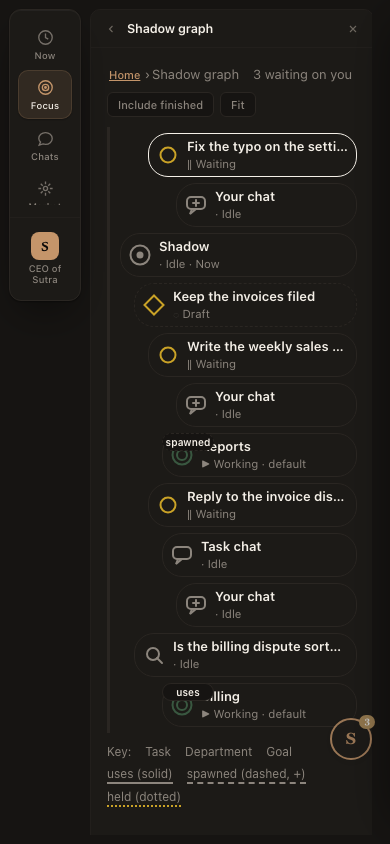
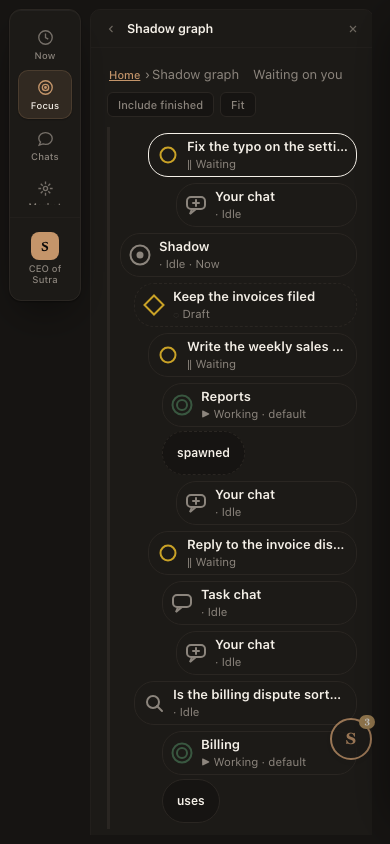
PRD P5.2: fix: edge tags clear every node, no count at rest in the graph header, no two nodes overlap
Wider gap between columns and taller rows; the tag sits in the middle of the gap; on the phone list a tag is in the flow under the node, 44 px tall. A department no longer shares rows with a task chat. The header reads Working / Waiting on you with no number. The walk and a unit test assert tag-vs-node and node-vs-node boxes and no digit in the header; the screenshots are re-shot.

diff --git a/marketplace/plugin/sutra-ui/qa/walks/a5-walk.js b/marketplace/plugin/sutra-ui/qa/walks/a5-walk.js
@@ -129,6 +129,20 @@ const NARROW = { w: 390, h: 844, mobile: false, tag: "390" };       // the app's
     if (kind !== "website") check("org: " + kind + ": the page does not call itself a website", !/website/i.test(text || ""), (text || "").match(/.{0,30}website.{0,30}/i));
   }
 
+
+  // a tag (the words on an edge) never sits on a node, and the graph holds no count at rest
+  const overlaps = `(() => { const box = e => e.getBoundingClientRect(), hit = (a, b) => a.left < b.right - 1 && b.left < a.right - 1 && a.top < b.bottom - 1 && b.top < a.bottom - 1;
+    const nodes = [...document.querySelectorAll('[data-sgnode]')], bad = [];
+    document.querySelectorAll('[data-sgtag]').forEach(t => nodes.forEach(n => { if (hit(box(t), box(n))) bad.push(t.textContent.trim() + ' on ' + (n.querySelector('.sglab') || n).textContent.trim()); }));
+    if (document.querySelector('.sghost')) nodes.forEach((a, i) => nodes.slice(i + 1).forEach(b => { if (hit(box(a), box(b))) bad.push('node ' + a.dataset.sgnode + ' on ' + b.dataset.sgnode); }));
+    const sum = (document.querySelector('.sgsum') || {}).textContent || '';
+    return JSON.stringify({ bad, tags: document.querySelectorAll('[data-sgtag]').length, digits: /\\d/.test(sum), sum }); })()`;
+  const tagCheck = async w => {
+    const r = JSON.parse(await run(overlaps));
+    check("graph " + w + ": no edge tag sits on a node and no node on another", r.tags >= 2 && r.bad.length === 0, JSON.stringify(r));
+    check("graph " + w + ": the header holds no count at rest", !r.digits, JSON.stringify(r.sum));
+  };
+
   // ---- 2. Home, then Graph --------------------------------------------------------------------------------------------------
   const home = async () => { await run(`goDest('focus'); openScreen('shadow'); render()`); await sleep(800); };
   const toGraph = async (vp) => {
@@ -156,6 +170,7 @@ const NARROW = { w: 390, h: 844, mobile: false, tag: "390" };       // the app's
   check("graph: spawned is a dashed line with a plus", view.spawned && view.spawned.dash && view.spawned.dash !== "none" && view.spawned.plus, JSON.stringify(view.spawned));
   check("graph: each of uses and spawned has a tag with its reason", ["uses", "spawned"].every(w => view.tags.some(t => t.word === w && /: .{5,}/.test(t.label || ""))), JSON.stringify(view.tags));
   check("graph: no node is only a colour (a word and a label go with it)", view.bare === 0, "bare " + view.bare);
+  await tagCheck("1280");
   await shot("graph-overview-1280.png");
 
   // every node opens the right chat or page
@@ -204,6 +219,7 @@ const NARROW = { w: 390, h: 844, mobile: false, tag: "390" };       // the app's
   await waitFor(`document.querySelectorAll('[data-sgnode]').length > 1 && !document.querySelector('.sgfocus')`, 15000);
   const phone = JSON.parse(await run(`JSON.stringify({ nodes: document.querySelectorAll('[data-sgnode]').length, small: [...document.querySelectorAll('[data-sgnode]')].filter(b => b.getBoundingClientRect().height < 44).length, over: document.documentElement.scrollWidth > window.innerWidth + 1 })`));
   check("phone: the graph is a list of 44 px targets with no sideways scroll", phone.nodes > 1 && phone.small === 0 && !phone.over, JSON.stringify(phone));
+  await tagCheck("390");
   await shot("graph-overview-390.png");
   for (const kind of ["default", "organic", "root"]) {
     for (const vp of [BIG, SMALL]) {

diff --git a/marketplace/plugin/sutra-ui/test_shadow_graph.js b/marketplace/plugin/sutra-ui/test_shadow_graph.js
@@ -117,7 +117,7 @@ async function loaded(ctx, body){
     const ctx = boot();
     let h = await loaded(ctx);
     assert.ok(!/Updated \d+s ago/.test(h));
-    assert.ok(/1 working, 1 waiting on you/.test(h));
+    assert.ok(/Working, Waiting on you/.test(h));
     ctx.clock.t += 30000;
     assert.ok(/Updated 30s ago/.test(html(ctx)));
   });
@@ -158,6 +158,29 @@ async function loaded(ctx, body){
     const heldId = SAMPLE.graph.edges.find(e => e.held).id;
     fire(ctx, "mouseover", btn({ sgtag: heldId }));
     assert.ok(/by the rule: /.test(html(ctx)) && /Held: Collections is Off/.test(html(ctx)));
+  });
+
+  await atest("no count at rest: the graph and its header hold no digit outside the names, times and ids", async () => {
+    const ctx = boot();
+    const h = await loaded(ctx);
+    const sum = /class="sgsum"[^>]*>([^<]*)</.exec(h);
+    assert.ok(sum && sum[1] && !/\d/.test(sum[1]), "the header summary has no digit: " + (sum && sum[1]));
+    const plain = h.replace(/<[^>]*>/g, " ");
+    assert.ok(!/\b\d+\s+(working|waiting|tasks?|departments?|chats?)\b/i.test(plain), "no 'N working'-style count");
+  });
+
+  await atest("layout: an edge tag clears every node box at the wide width", async () => {
+    const ctx = boot();
+    const h = await loaded(ctx);
+    const px = (s, k) => Number(new RegExp(k + ":(-?\\d+)px").exec(s)[1]);
+    const nodes = [...h.matchAll(/class="sgnode[^"]*"[^>]*?style="([^"]*)"/g)].map(m => ({ x: px(m[1], "left"), y: px(m[1], "top"), w: px(m[1], "width"), h: px(m[1], "height") }));
+    const tags = [...h.matchAll(/class="sgtag[^"]*"[^>]*style="([^"]*)"/g)].map(m => ({ x: px(m[1], "left"), y: px(m[1], "top"), w: 52, h: 18 }));
+    assert.ok(nodes.length > 3 && tags.length >= 3, nodes.length + " nodes, " + tags.length + " tags");
+    const hit = (a, b) => a.x < b.x + b.w && b.x < a.x + a.w && a.y < b.y + b.h && b.y < a.y + a.h;
+    tags.forEach(t => nodes.forEach(nd => assert.ok(!hit(t, nd), "a tag at " + t.x + "," + t.y + " touches a node at " + nd.x + "," + nd.y)));
+    const css = fs.readFileSync(path.join(__dirname, "static", "panel.css"), "utf8");
+    assert.ok(/\.sgtag\{[^}]*width:52px;height:18px/.test(css), "the tag size the box test assumes");
+    assert.ok(/\.sglist \.sgtag\{position:static/.test(css), "on the phone list a tag is in the flow, not over the name");
   });
 
   await atest("each node opens the right place with the right id", async () => {

diff --git a/marketplace/plugin/sutra-ui/static/js/27-shadow-graph.js b/marketplace/plugin/sutra-ui/static/js/27-shadow-graph.js
@@ -13,7 +13,7 @@
 const SG_API = "/api/shadow/graph";
 const SG_POLL_MS = 4000;
 const SG_KEY = "sutra.shadow.graph";
-const SG_COLW = 232, SG_NODEW = 168, SG_ROWH = 22, SG_NODEH = 40, SG_PADX = 16, SG_PADY = 12, SG_PHONE = 700;
+const SG_COLW = 238, SG_NODEW = 152, SG_ROWH = 26, SG_NODEH = 40, SG_TAGW = 52, SG_TAGH = 18, SG_PADX = 16, SG_PADY = 12, SG_PHONE = 700;
 const SG_STALE_S = 12;
 
 /* a status is its word and its glyph before it is a colour */
@@ -189,7 +189,7 @@ function sgGraphHtml(g){
     if (!a || !b) return "";
     const pb = sgPos(b);
     const word = e.held ? "held" : SG_TAG[e.kind];
-    return `<button type="button" class="sgtag t-${e.held ? "held" : e.kind}" data-sgtag="${sgAttr(e.id)}" style="left:${pb.x - 54}px;top:${pb.y + SG_NODEH / 2 - 9}px"
+    return `<button type="button" class="sgtag t-${e.held ? "held" : e.kind}" data-sgtag="${sgAttr(e.id)}" style="left:${pb.x - Math.round((SG_COLW - SG_NODEW + SG_TAGW) / 2)}px;top:${pb.y + SG_NODEH / 2 - SG_TAGH / 2}px"
       aria-label="${sgAttr(word + ": " + (e.reason || ""))}">${sgEsc(word)}</button>`;
   }).join("");
   const tip = sgTipHtml();
@@ -218,12 +218,12 @@ function sgListHtml(g){
   return `<ul class="sglist" data-sghost="1" role="group" aria-label="Shadow graph">${rows}</ul>`;
 }
 
+/* no counts at rest: the header says what kind of thing is happening, never how many */
 function sgSummary(g){
   const t = (g.nodes || []).filter(n => n.kind === "task");
-  const w = t.filter(n => n.status === "working").length, q = t.filter(n => n.status === "waiting").length;
   const bits = [];
-  if (w) bits.push(w + " working");
-  if (q) bits.push(q + " waiting on you");
+  if (t.some(n => n.status === "working")) bits.push("Working");
+  if (t.some(n => n.status === "waiting")) bits.push("Waiting on you");
   return bits.join(", ");
 }
 function sgBanner(){

diff --git a/marketplace/plugin/sutra-ui/static/panel.css b/marketplace/plugin/sutra-ui/static/panel.css
@@ -6347,6 +6347,7 @@ html.embed-chat .panes>.pane{flex:1 1 100%;max-width:none}
 .sgtag.t-held{border-color:var(--warn);color:var(--warn);border-style:dotted}
 .sgtip{position:absolute;z-index:5;max-width:280px;padding:8px 10px;display:flex;flex-direction:column;gap:2px;background:var(--card);
   border:1px solid var(--line);border-radius:var(--r);box-shadow:var(--shadow);font-size:12px}
+.sglist .sgtag{position:static;z-index:auto;width:auto;min-width:52px;min-height:44px;padding:0 14px;border-radius:22px;font-size:12px;line-height:1.2}
 .sgtip.inline{position:static;margin:4px 0 0 30px}
 .sglegend{display:flex;flex-wrap:wrap;gap:4px 14px;color:var(--muted);font-size:12px}
 .sglegend .k-spawned{border-bottom:2px dashed var(--muted)}

diff --git a/marketplace/plugin/sutra-ui/test_shadow_graph_build.py b/marketplace/plugin/sutra-ui/test_shadow_graph_build.py
@@ -199,6 +199,8 @@ def test_10_a_department_used_twice_sits_at_the_mean_row_and_rows_do_not_collide
     assert [n["id"] for n in g["nodes"] if n["kind"] == "department"] == ["dept:dref-billing01"]
     pos = [(n["col"], n["row"]) for n in g["nodes"]]
     assert len(pos) == len(set(pos)), "no two nodes share a cell"
+    col3 = sorted(n["row"] for n in g["nodes"] if n["col"] == 3)
+    assert all(b - a >= 2 for a, b in zip(col3, col3[1:])), "a department box never overlaps a task chat or another department: %s" % col3
 
 
 def test_11_executor_department_draws_no_worker(env):
@@ -324,3 +326,16 @@ def test_memo_is_keyed_by_the_real_departments_signature(org, monkeypatch):
     G.build()
     assert G._MEMO != memo and G._MEMO[('graph', None, False)][0] == G._signature()
     G.clear()
+
+
+def test_a5_a_department_beside_task_chats_overlaps_no_box(env, monkeypatch):
+    """A node is two rows tall: with a task chat on every task row, the departments of the same column still sit two or more rows from them."""
+    ms = [mission(objective="Task %d" % i, task_chat_session="sess-%d" % i) for i in range(3)]
+    for m, ref in zip(ms, ("dref-billing01", "dref-reports01", "dref-billing01")):
+        m["department_decision"] = decision(m["id"], ref)
+        ME.MissionStore().save(m)
+    monkeypatch.setattr(env, "dept_read", FakeDeptRead([row("dref-billing01", "Billing"), row("dref-reports01", "Reports")]))
+    g = env.build()
+    col3 = sorted(n["row"] for n in g["nodes"] if n["col"] == 3)
+    assert len([n for n in g["nodes"] if n["kind"] == "department"]) == 2 and len(col3) == 5
+    assert all(b - a >= 2 for a, b in zip(col3, col3[1:])), col3

diff --git a/marketplace/plugin/sutra-ui/shadow_graph.py b/marketplace/plugin/sutra-ui/shadow_graph.py
@@ -267,12 +267,12 @@ def _derive(missions, goals, convs, costs, depts, include_done=False, focus=None
             dept_users.setdefault(hit[0], []).append(r)
             dept_edges.append((tid, hit, on))
 
-    used_rows = set()
+    # a node is two rows tall: a department takes the row nearest the mean of its tasks that is two or more rows from every other
+    # node of its column (a task chat sits there too), so no two boxes overlap
+    used_rows = {n['row'] for n in nodes.values() if n['col'] == 3}
     for ref, rs in dept_users.items():
-        r = int(round(sum(rs) / len(rs)))
-        r = r + 1 if r % 2 == 0 else r
-        while r in used_rows:
-            r += 2
+        want = int(round(sum(rs) / len(rs)))
+        r = next(c for d in range(0, 400) for c in (want + d, want - d) if c >= 0 and all(abs(c - u) >= 2 for u in used_rows))
         used_rows.add(r)
         row = depts.get(ref)
         if row:
